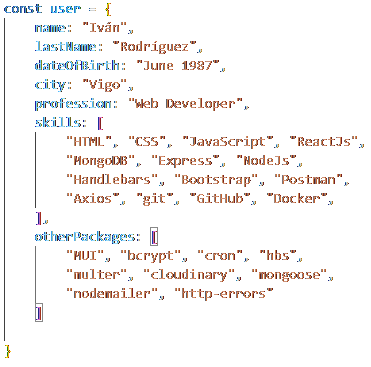
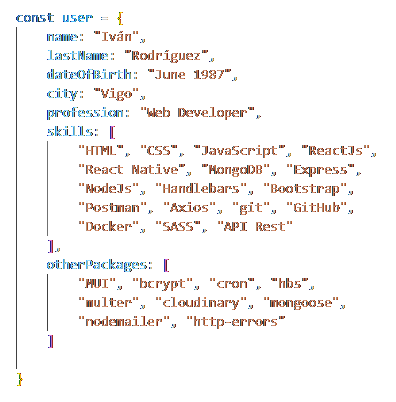
update: updated Skills

diff --git a/src/texto-inicio.js b/src/texto-inicio.js
@@ -9,9 +9,10 @@ const user = {
     profession: "Web Developer",
     skills: [
         "HTML", "CSS", "JavaScript", "ReactJs",
-        "MongoDB", "Express", "NodeJs", 
-        "Handlebars", "Bootstrap", "Postman",
-        "Axios", "git", "GitHub", "Docker",
+        "React Native", "MongoDB", "Express", 
+        "NodeJs", "Handlebars", "Bootstrap",
+        "Postman", "Axios", "git", "GitHub", 
+        "Docker", "SASS", "API Rest"
     ],
     otherPackages: [
         "MUI", "bcrypt", "cron", "hbs",

diff --git a/src/data/certificates/certificatesData.js b/src/data/certificates/certificatesData.js
@@ -10,3 +10,6 @@ const certificatesData = [
 ]
 
 module.exports = certificatesData
+
+
+
